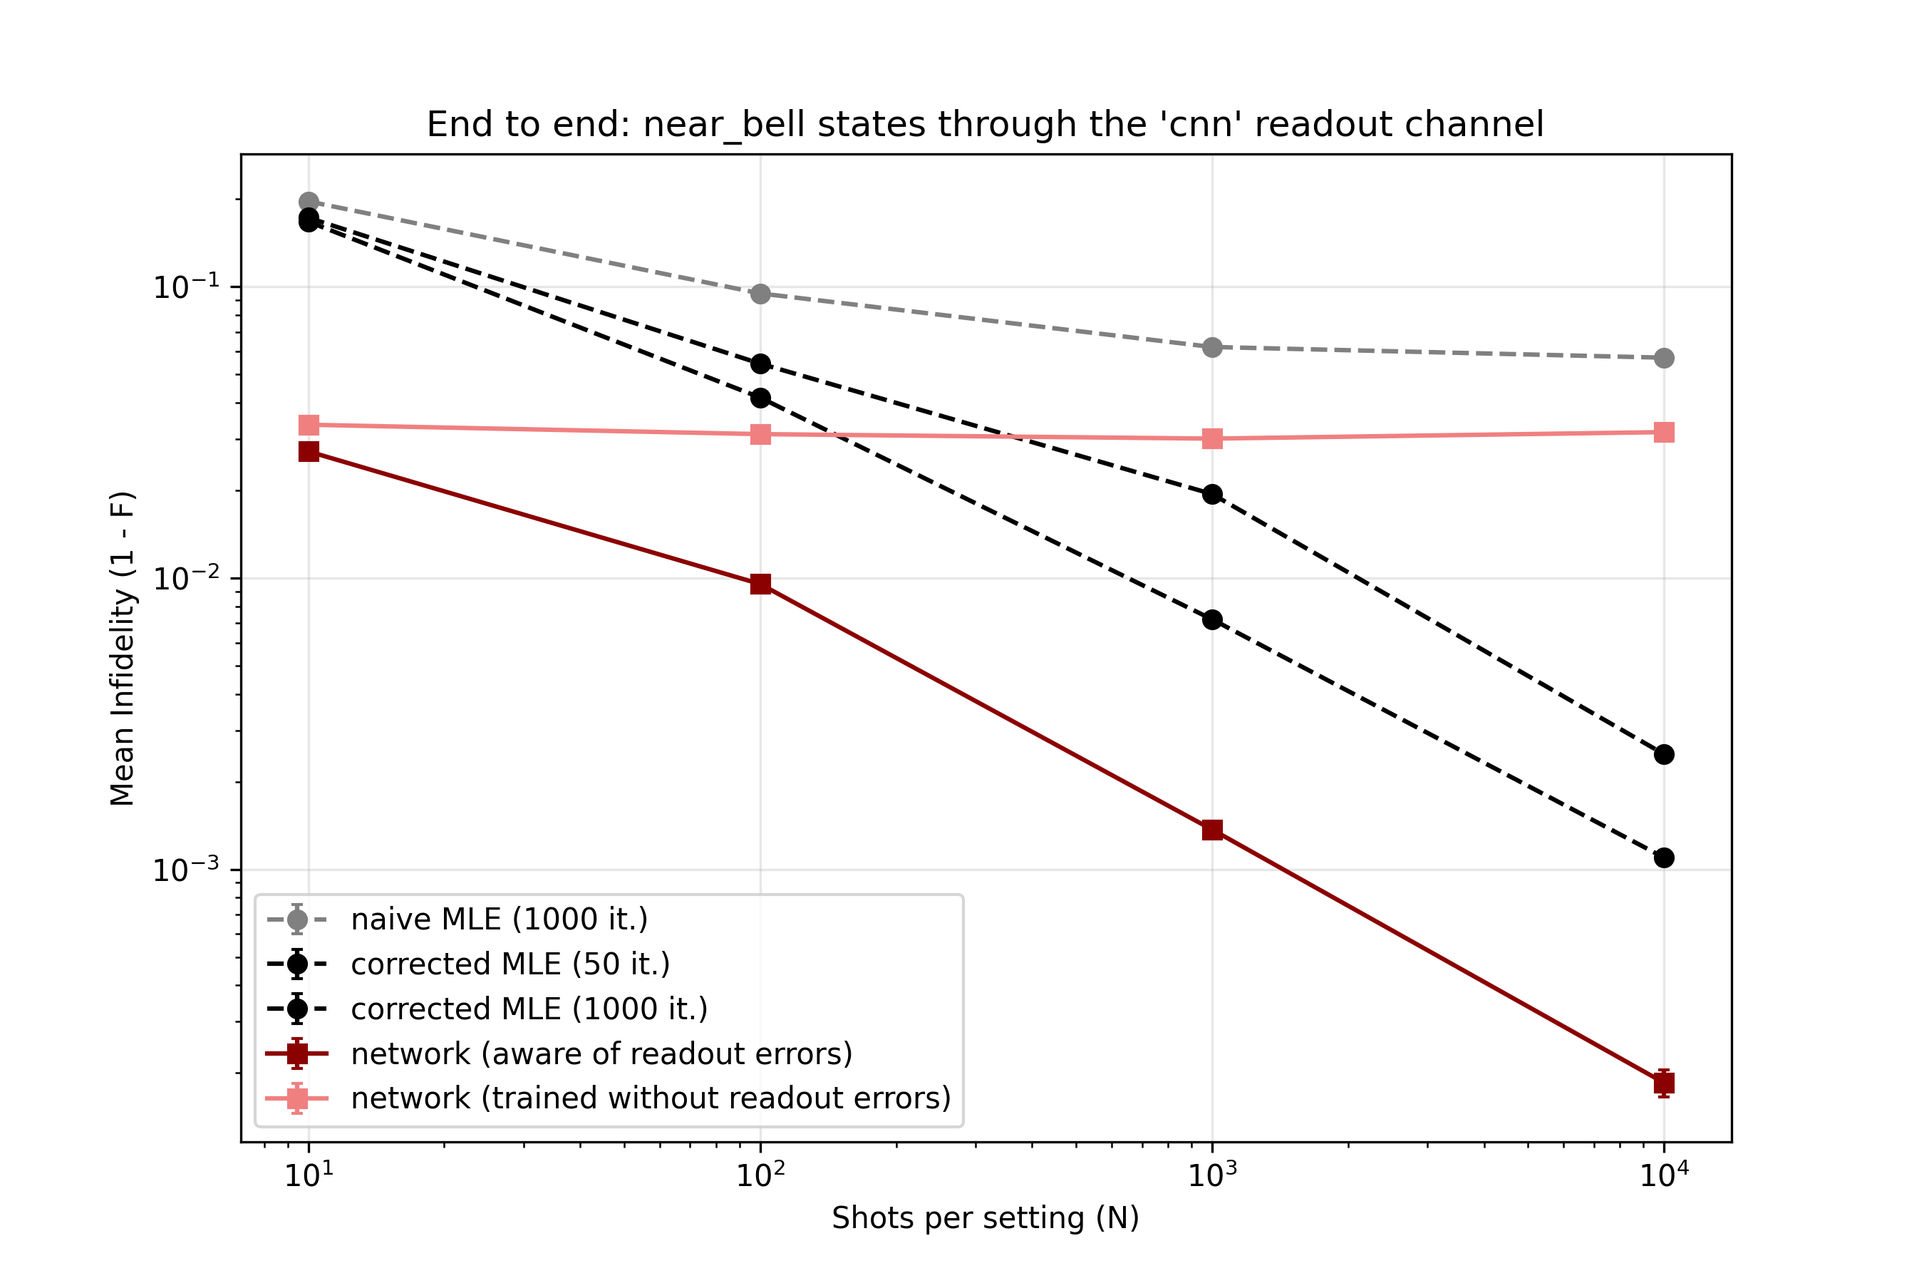
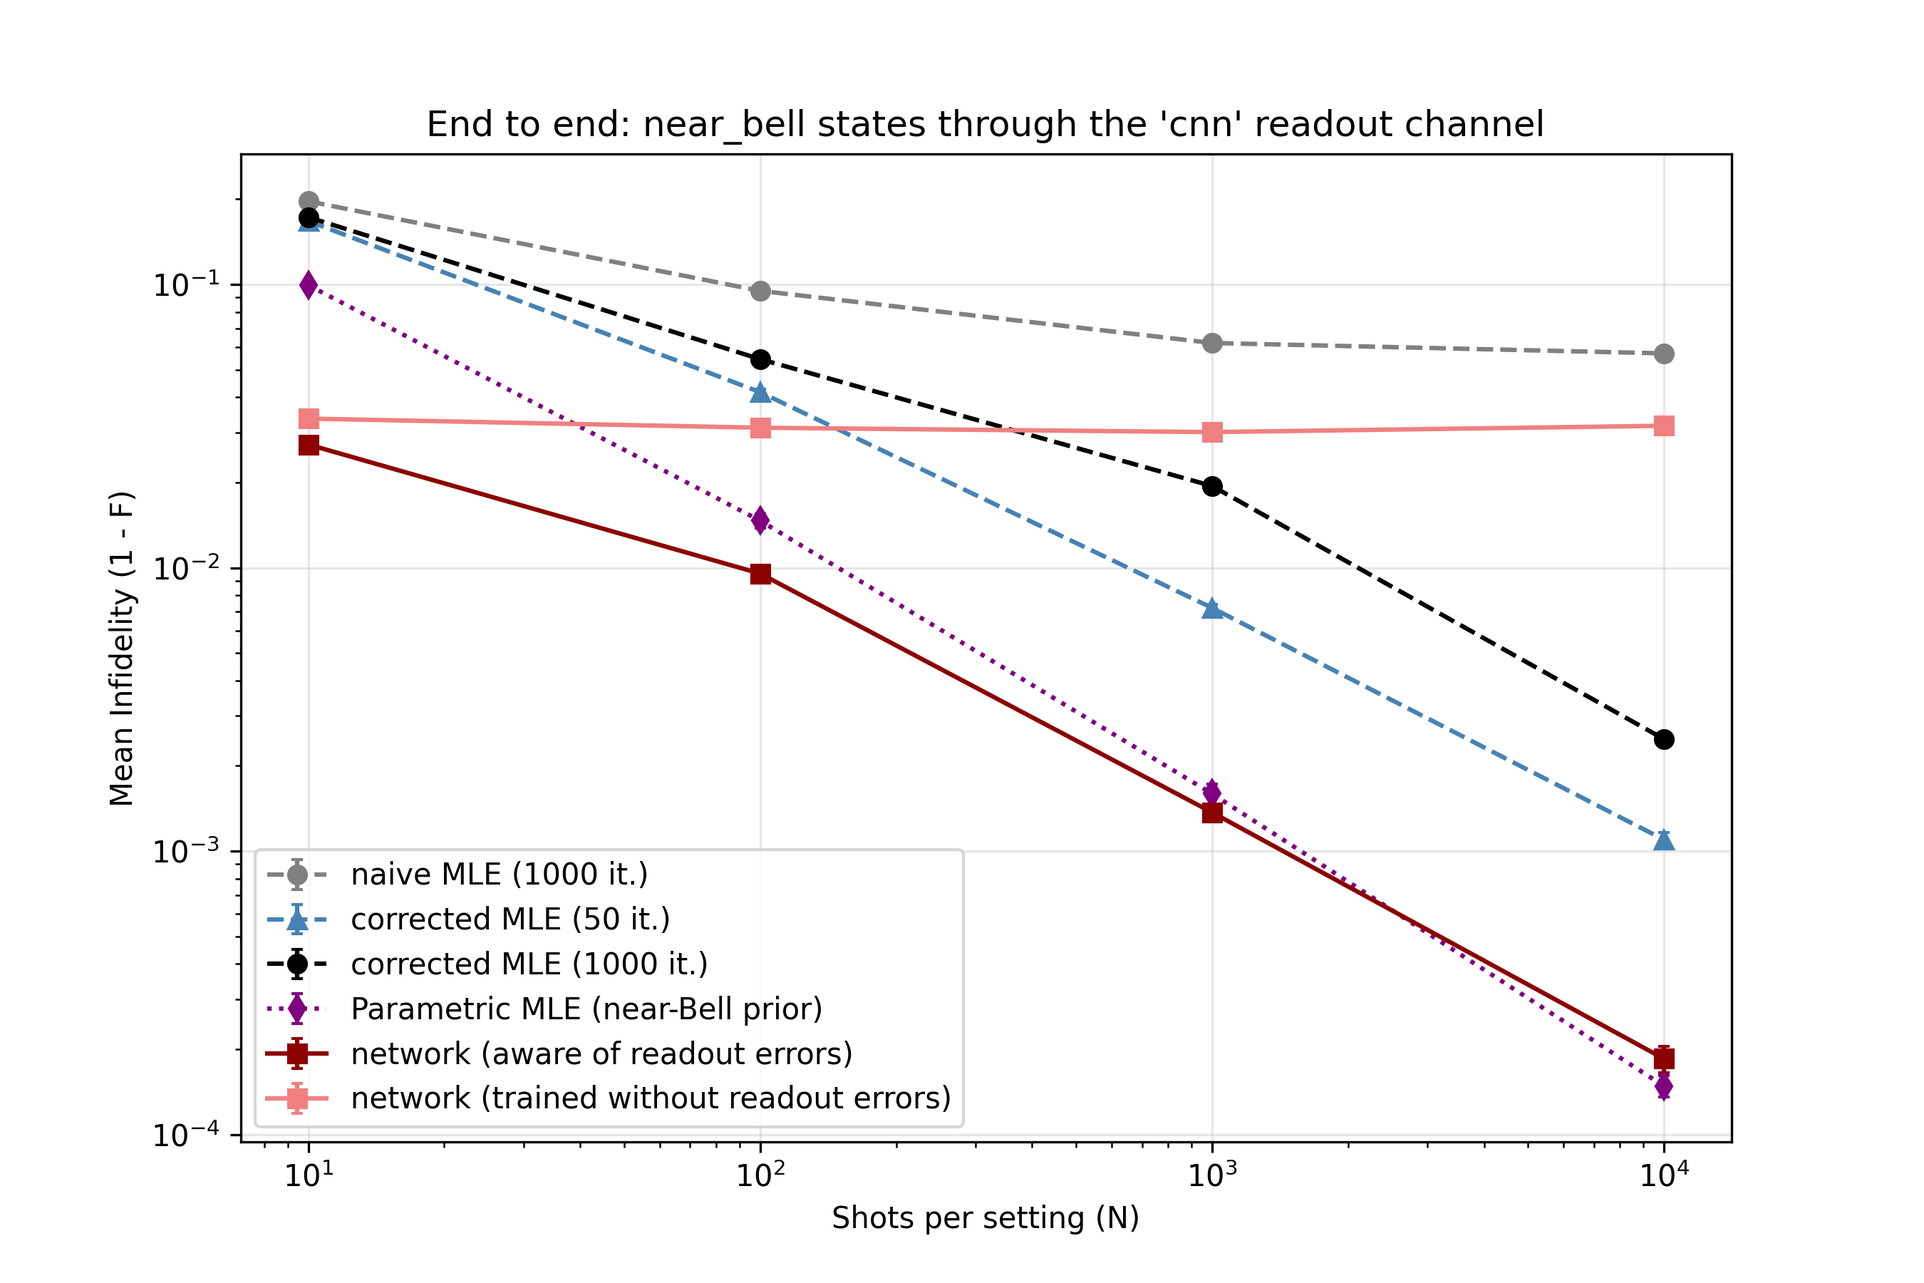
Evaluation of the aware model and speed benchmark

diff --git a/tomography/benchmark_speed.py b/tomography/benchmark_speed.py
@@ -1,52 +1,38 @@
 # tomography/benchmark_speed.py
-"""Speed (and convergence) of MLE vs. the variable-shot neural reconstruction.
+"""Speed and convergence benchmark for channel-aware networks vs corrected classical estimators.
 
-    python -m tomography.benchmark_speed --ensemble near_bell --checkpoint checkpoints/<your_near_bell_model>.pth \
-        --shots 100 1000 10000 --n-states 100
-
-MLE is timed for several iteration counts (tol=0, so every iteration runs) together with the infidelity it reaches,
-which shows how many iterations it needs at each shot count. Without --checkpoint only MLE is timed.
-
-Caveat: this MLE is a plain per-state numpy loop. A batched implementation (GPU or vectorized) would be much faster,
-so the speedup printed here is an upper bound on what a network would save over a well-written MLE.
+    python -m tomography.benchmark_speed --ensemble near_bell \
+        --aware-checkpoint checkpoints/neural_tomo_aware/neural_tomo_near_bell_cnn.pth
 """
 import argparse
-import importlib
+import json
 import time
-
 import numpy as np
 
+from utils.states import measurement_operators, fidelity, born_probabilities
+from utils.ensembles import random_broad_state, random_near_bell_state
+from tomography.reconstruct import mle, parametric_mle
 
-def _load(module):
-    """Import <module> from the 'utils' package if it exists there, otherwise from 'tomography'."""
-    for pkg in ("utils", "tomography"):
-        try:
-            return importlib.import_module(f"{pkg}.{module}")
-        except ImportError:
-            continue
-    raise ImportError(f"could not import '{module}' from utils or tomography")
+ENSEMBLES = {"broad": random_broad_state, "near_bell": random_near_bell_state}
 
 
-_states, _ensembles, _reconstruct = _load("states"), _load("ensembles"), _load("reconstruct")
-measurement_operators, sample_counts, fidelity = _states.measurement_operators, _states.sample_counts, _states.fidelity
-mle = _reconstruct.mle
-ENSEMBLES = {"broad": _ensembles.random_broad_state, "near_bell": _ensembles.random_near_bell_state}
+def sample_counts_channel(rho, E, C, shots, rng):
+    p = np.clip(born_probabilities(rho, E), 0, None) @ C.T
+    p = np.clip(p, 0, None)
+    p /= p.sum(axis=1, keepdims=True)
+    return np.stack([rng.multinomial(shots, p[k]) for k in range(p.shape[0])])
 
 
-def load_network(args):
-    """Return predict(x, n_shots) -> (n, 4, 4) complex array, or None if no checkpoint is given.
-
-    x holds the 36 frequencies (n, 36); the log10(N) column that the model expects is appended here.
-    """
-    if args.checkpoint is None:
+def load_network(checkpoint, hidden_dim=256, n_layers=3):
+    if checkpoint is None:
         return None
     import torch
     from model.tomography_model import NeuralTomography
 
-    ck = torch.load(args.checkpoint, map_location="cpu")
+    ck = torch.load(checkpoint, map_location="cpu")
     wrapped = isinstance(ck, dict) and "state_dict" in ck
-    hidden = ck.get("hidden_dim", args.hidden_dim) if wrapped else args.hidden_dim
-    n_layers = ck.get("n_layers", args.n_layers) if wrapped else args.n_layers
+    hidden = ck.get("hidden_dim", hidden_dim) if wrapped else hidden_dim
+    n_layers = ck.get("n_layers", n_layers) if wrapped else n_layers
     model = NeuralTomography(hidden_dim=hidden, n_layers=n_layers)
     model.load_state_dict(ck["state_dict"] if wrapped else ck)
     model.eval()
@@ -66,48 +52,68 @@ def mean_infidelity(pred, true):
 def main():
     p = argparse.ArgumentParser()
     p.add_argument("--ensemble", choices=list(ENSEMBLES), default="broad")
-    p.add_argument("--checkpoint", default=None, help="trained variable-shot network (.pth); omit to time MLE only")
-    p.add_argument("--hidden-dim", type=int, default=256, help="used if the checkpoint does not store it")
-    p.add_argument("--n-layers", type=int, default=3, help="used if the checkpoint does not store it")
+    p.add_argument("--aware-checkpoint", required=True, help="trained aware network (.pth)")
+    p.add_argument("--readout-json", default="results/sweeps/readout_tomography.json")
+    p.add_argument("--classifier", default="cnn")
+    p.add_argument("--hidden-dim", type=int, default=256)
+    p.add_argument("--n-layers", type=int, default=3)
     p.add_argument("--shots", type=int, nargs="+", default=[100, 1000, 10000])
     p.add_argument("--n-states", type=int, default=100)
-    p.add_argument("--iters", type=int, nargs="+", default=[50, 200, 1000, 2000])
+    p.add_argument("--iters", type=int, nargs="+", default=[50, 1000])
     p.add_argument("--seed", type=int, default=0)
     args = p.parse_args()
 
     rng = np.random.default_rng(args.seed)
     E = measurement_operators()
-    predict = load_network(args)
-    if predict is None:
-        print("(no --checkpoint given: timing MLE only)")
+
+    with open(args.readout_json) as f:
+        C = np.array(json.load(f)["C_true"][args.classifier])
+    
+    # Calculate effective POVM operators for corrected classical estimators
+    E_eff = np.einsum('mt,ktij->kmij', C, E)
+
+    predict = load_network(args.aware_checkpoint, args.hidden_dim, args.n_layers)
 
     for n_shots in args.shots:
         states = [ENSEMBLES[args.ensemble](rng) for _ in range(args.n_states)]
-        counts = [sample_counts(s, E, n_shots, rng) for s in states]
-        print(f"\n{args.ensemble} states, {n_shots} shots/setting, {args.n_states} states")
+        counts = [sample_counts_channel(s, E, C, n_shots, rng) for s in states]
+        print(f"\n{args.ensemble} states, {n_shots} shots/setting, {args.n_states} states, channel: {args.classifier}")
+        
         t_mle = None
         for iters in args.iters:
             t0 = time.perf_counter()
-            est = [mle(c, E, iters=iters, tol=0) for c in counts]
+            est = [mle(c, E_eff, iters=iters, tol=0) for c in counts]
             t_mle = (time.perf_counter() - t0) / len(counts)
-            print(f"  MLE, {iters:>5d} iterations : {t_mle * 1e3:8.2f} ms/state   infidelity {mean_infidelity(est, states):.3e}")
+            print(f"  corrected MLE, {iters:>4d} it. : {t_mle * 1e3:8.2f} ms/state   infidelity {mean_infidelity(est, states):.3e}")
+
+        t_param = None
+        if args.ensemble == "near_bell":
+            t0 = time.perf_counter()
+            est_param = [parametric_mle(c, E_eff) for c in counts]
+            t_param = (time.perf_counter() - t0) / len(counts)
+            print(f"  Parametric MLE           : {t_param * 1e3:8.2f} ms/state   infidelity {mean_infidelity(est_param, states):.3e}")
 
         if predict is not None:
             x = np.array([(c / n_shots).reshape(-1) for c in counts], dtype=np.float32)
-            predict(x[:8], n_shots)                                         # warm-up
+            predict(x[:8], n_shots)  # warm-up
+            
             reps = 5
             t0 = time.perf_counter()
             for _ in range(reps):
                 out = predict(x, n_shots)
             t_batch = (time.perf_counter() - t0) / reps / len(x)
+            
             n1 = min(50, len(x))
             t0 = time.perf_counter()
             for i in range(n1):
                 predict(x[i:i + 1], n_shots)
             t_single = (time.perf_counter() - t0) / n1
-            print(f"  network, batch of {len(x)}      : {t_batch * 1e6:8.1f} us/state   infidelity {mean_infidelity(out, states):.3e}")
-            print(f"  network, one state at a time : {t_single * 1e6:8.1f} us/state")
-            print(f"  speedup vs. MLE ({args.iters[-1]} it.)    : x{t_mle / t_batch:,.0f} (batched), x{t_mle / t_single:,.0f} (single)")
+            
+            print(f"  network, batch of {len(x):<4d}   : {t_batch * 1e6:8.1f} us/state   infidelity {mean_infidelity(out, states):.3e}")
+            print(f"  network, one state       : {t_single * 1e6:8.1f} us/state")
+            print(f"  speedup vs. MLE ({args.iters[-1]} it) : x{t_mle / t_batch:,.0f} (batched), x{t_mle / t_single:,.0f} (single)")
+            if t_param is not None:
+                print(f"  speedup vs. Param. MLE   : x{t_param / t_batch:,.0f} (batched), x{t_param / t_single:,.0f} (single)")
 
 
 if __name__ == "__main__":

diff --git a/tomography/end_to_end_eval.py b/tomography/end_to_end_eval.py
@@ -1,15 +1,5 @@
 # tomography/end_to_end_eval.py
-"""End to end: states -> basis rotation -> noisy readout (confusion matrix of a classifier) -> counts -> reconstruction.
-
-Compared on the same states and counts:
-  naive MLE            : reported counts reconstructed as if readout were perfect
-  corrected MLE        : MLE with effective operators E'[k,m] = sum_t C[m,t] E[k,t], using the exact C (idealized calibration)
-  network (aware)      : network trained on counts generated through the same channel
-  network (ideal)      : network trained on perfect-readout counts, applied naively (optional; expected to fail)
-
-    python -m tomography.end_to_end_eval --ensemble near_bell --readout-json results/sweeps/readout_tomography.json \
-        --classifier cnn --aware-checkpoint checkpoints/neural_tomo_aware/neural_tomo_near_bell_cnn.pth
-"""
+"""End to end: states -> basis rotation -> noisy readout (confusion matrix of a classifier) -> counts -> reconstruction."""
 import argparse
 import json
 import os
@@ -18,11 +8,17 @@ from types import SimpleNamespace
 import matplotlib.pyplot as plt
 import numpy as np
 
-from tomography.benchmark_speed import load_network, measurement_operators, fidelity, mle, ENSEMBLES, _states
+# Replaced benchmark_speed dynamic _load hack with direct imports
+from utils.states import measurement_operators, fidelity, born_probabilities
+from utils.ensembles import random_broad_state, random_near_bell_state
+from tomography.reconstruct import mle, parametric_mle
+from tomography.benchmark_speed import load_network
+
+ENSEMBLES = {"broad": random_broad_state, "near_bell": random_near_bell_state}
 
 
 def sample_counts_channel(rho, E, C, shots, rng):
-    p = np.clip(_states.born_probabilities(rho, E), 0, None) @ C.T
+    p = np.clip(born_probabilities(rho, E), 0, None) @ C.T
     p = np.clip(p, 0, None)
     p /= p.sum(axis=1, keepdims=True)
     return np.stack([rng.multinomial(shots, p[k]) for k in range(p.shape[0])])
@@ -46,6 +42,10 @@ def run(args, C, networks):
         res = {f"naive MLE ({args.mle_iters[-1]} it.)": infidelities([mle(c, E, iters=args.mle_iters[-1]) for c in counts], true)}
         for it in args.mle_iters:
             res[f"corrected MLE ({it} it.)"] = infidelities([mle(c, E_eff, iters=it) for c in counts], true)
+            
+        if args.ensemble == "near_bell":
+            res["Parametric MLE (near-Bell prior)"] = infidelities([parametric_mle(c, E_eff) for c in counts], true)
+            
         for name, predict in networks.items():
             res[name] = infidelities(predict(x, n_shots), true)
         results[n_shots] = res
@@ -53,7 +53,7 @@ def run(args, C, networks):
         print(f"\n{args.ensemble} states, {n_shots} shots/setting, {args.n_states} states, channel: {args.classifier}")
         best_mle = min((m for m in res if m.startswith("corrected")), key=lambda m: res[m].mean())
         for method, inf in res.items():
-            line = f"  {method:<34s}: {inf.mean():.3e} +- {inf.std() / np.sqrt(len(inf)):.1e}"
+            line = f"  {method:<38s}: {inf.mean():.3e} +- {inf.std() / np.sqrt(len(inf)):.1e}"
             if method.startswith("network"):
                 d = inf - res[best_mle]
                 line += f"   | vs best corrected MLE: x{inf.mean() / res[best_mle].mean():.2f} (paired {d.mean():+.1e} +- {d.std() / np.sqrt(len(d)):.1e})"
@@ -71,11 +71,14 @@ def plot(results, args):
         mean = [results[n][m].mean() for n in shots]
         sem = [results[n][m].std() / np.sqrt(len(results[n][m])) for n in shots]
         
-        # Map method names to the requested colors and line styles
         if m.startswith("naive MLE"):
             fmt, color = 'o--', 'gray'
-        elif m.startswith("corrected MLE"):
+        elif m.startswith("corrected MLE") and "50" in m:
+            fmt, color = '^--', 'steelblue'
+        elif m.startswith("corrected MLE") and "1000" in m:
             fmt, color = 'o--', 'black'
+        elif m.startswith("Parametric MLE"):
+            fmt, color = 'd:', 'purple'
         elif m.startswith("network (trained without"):
             fmt, color = 's-', 'lightcoral'
         elif m.startswith("network (aware"):

diff --git a/tomography/reconstruct.py b/tomography/reconstruct.py
@@ -5,6 +5,43 @@ import numpy as np
 from utils.states import PAULI, I2, S1, S2
 
 
+# tomography/reconstruct.py
+"""State reconstruction from measured counts: linear inversion, physical projection, and MLE."""
+import numpy as np
+import scipy.optimize as opt
+
+from utils.states import PAULI, I2, S1, S2, bell_state
+
+
+def rot_1q(a, b, c):
+    """Standard ZYZ Euler decomposition for single-qubit rotation."""
+    return np.array([
+        [np.exp(-1j*(a+c)/2)*np.cos(b/2), -np.exp(-1j*(a-c)/2)*np.sin(b/2)],
+        [np.exp( 1j*(a-c)/2)*np.sin(b/2),  np.exp( 1j*(a+c)/2)*np.cos(b/2)]
+    ])
+
+
+def parametric_near_bell(params):
+    """Generates a 7-parameter state: local SU(2) rotations on a Bell state + depolarizing noise."""
+    angles, mu = params[:6], params[6]
+    U = np.kron(rot_1q(*angles[:3]), rot_1q(*angles[3:]))
+    phi_plus = bell_state("phi+")
+    return (1 - mu) * (U @ phi_plus @ U.conj().T) + (mu / 4.0) * np.eye(4)
+
+
+def parametric_mle(counts, E_eff):
+    """Model-based MLE for the 7-parameter near-Bell manifold."""
+    def nll(params):
+        rho = parametric_near_bell(params)
+        p = np.maximum(np.einsum('kmij,ji->km', E_eff, rho).real, 1e-12)
+        return -np.sum(counts * np.log(p))
+    
+    init = np.zeros(7)
+    bounds = [(-np.pi, np.pi)] * 6 + [(0, 1)]
+    res = opt.minimize(nll, init, bounds=bounds, method='L-BFGS-B')
+    return parametric_near_bell(res.x)
+
+
 def linear_inversion(counts):
     """rho = 1/4 [ II + sum_i <s_i I> s_i I + sum_j <I s_j> I s_j + sum_ij <s_i s_j> s_i s_j ].
 

diff --git a/README.md b/README.md
@@ -13,6 +13,7 @@ A two-qubit density matrix $\rho$ has 15 real parameters. Measuring each qubit i
 **Reconstruction Estimators:**
 - *Linear inversion with projection:* Estimates Pauli correlators from counts, projecting the result onto the nearest physical state.
 - *Maximum likelihood (MLE):* Iterative solver ensuring the estimate remains positive semi-definite and trace-preserving.
+- *Parametric MLE:* A model-based maximum likelihood optimizer constrained explicitly to a 7-parameter near-Bell generation manifold.
 - *Neural Network (Prior-based):* A 37-dimensional input MLP (36 empirical frequencies + $\log_{10}N$) mapping finite-shot measurement statistics directly to a positive semi-definite density matrix via Cholesky parameterization.
 
 **Readout chain:** 
@@ -26,11 +27,12 @@ The QuTiP simulator implements $T_1$ decay, dispersive cavity response, and mult
 - **Bell states:** MLE falls as $1/N$ and reaches roughly $10^{-6}$ at $3 \times 10^5$ shots. Linear inversion falls as $1/\sqrt{N}$.
 - **Random pure and mixed states:** Both estimators scale roughly as $1/\sqrt{N}$ (pure) and $1/N$ (mixed) at high shot counts.
 
-### Neural Network vs. MLE (Variable Shots)
+### Neural Network vs. Classical Solvers
 <img src="results/figures/variable_shot_eval.png" alt="Variable-shot Neural Network vs MLE" width="600">
 
-- **Localized Prior (`near_bell`):** Outperforms Maximum Likelihood Estimation at low shot counts by leveraging the learned manifold of the target physical boundary.
-- **General Prior (`broad`):** Underperforms MLE in the low-shot regime. The conditional-mean bias of MSE loss forces the broad network to predict the maximally mixed state ($I/4$) when finite-shot data is highly ambiguous.
+- **General Prior (`broad`):** Underperforms generic MLE in the low-shot regime. The conditional-mean bias of MSE loss forces the broad network to predict the maximally mixed state ($I/4$) when finite-shot data is highly ambiguous.
+- **Localized Prior (`near_bell`):** Outperforms generic Maximum Likelihood Estimation at low shot counts by leveraging the learned manifold of the target physical boundary.
+- **Parametric Baseline Validation:** When compared against an exact 7-parameter Parametric MLE bound on near-Bell states, the network matches the classical optimizer's asymptotic fidelity ($\sim 2.7 \times 10^{-4}$ at 10,000 shots). The neural network operates as an amortized projector onto the generation manifold, achieving parity with the exact mathematical prior.
 
 ### Through the readout chain
 <img src="results/figures/readout_tomography.png" alt="Tomography through the readout chain" width="800">
@@ -39,16 +41,17 @@ The QuTiP simulator implements $T_1$ decay, dispersive cavity response, and mult
 - **A calibrated correction recovers scaling:** With MLE correction, the infidelity resumes falling with the number of shots. 
 - **Classifier impact:** Uncorrected, the matched filter performs worse than the LDA or CNN. With correction, the CNN and LDA perform similarly and slightly outperform the matched filter.
 
-### Inference Speed
-The neural network provides a massive reduction in reconstruction latency compared to Maximum Likelihood Estimation. This microsecond-scale execution makes the neural prior viable for real-time hardware feedback loops where MLE introduces critical bottlenecks.
+### Hardware-Aware Inference Speed
+The neural network provides a massive reduction in reconstruction latency compared to classical solvers, while implicitly absorbing the physical readout chain's confusion matrix. This microsecond-scale execution makes the neural prior viable for real-time hardware feedback loops where iterative MLE introduces critical bottlenecks.
 
-* **MLE (2000 iterations):** ~22.0 ms / state
-* **Neural Network (Unbatched):** ~90-110 μs / state (~200x speedup)
-* **Neural Network (Batched, size 100):** ~3-5 μs / state (> 4,000x speedup)
+* **Corrected MLE (1000 iterations):** ~11.0 ms / state
+* **Parametric MLE (Near-Bell bound):** ~5.6 ms / state
+* **Aware Neural Network (Single state):** ~90 μs / state (~120x speedup vs MLE, ~60x vs Parametric)
+* **Aware Neural Network (Batched, size 100):** ~3.4 μs / state (> 3,200x speedup vs MLE, ~1,600x vs Parametric)
 
-## Development Methodology
+## Development Notes
 
-The core CNN architecture, QuTiP simulation boilerplate, and classical baselines were scaffolded with the assistance of AI coding tools. Primary technical contributions focus on structuring the quantum state tomography math (Maximum Likelihood Estimation and Linear Inversion), designing the physical simulation to isolate multi-qubit crosstalk, decoupling analog data generation pools for high-shot scaling, and engineering variable-shot neural network architectures to benchmark learned priors against fundamental statistical limits.
+This repository is a student learning project exploring quantum state tomography and readout error mitigation. Much of the codebase and mathematical structuring was developed with the assistance of AI tools, implementing standard techniques from quantum information literature to benchmark their practical trade-offs.
 
 ## Quick start
 ```bash
@@ -62,4 +65,5 @@ python -m tomography.readout_tomography \
 
 # 2. Neural Network State Tomography
 ./run_neural_tomo.sh
-python -m tomography.variable_cross_eval
+python -m tomography.end_to_end_eval
+python -m tomography.benchmark_aware_speed
